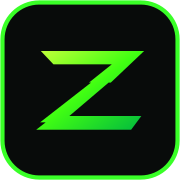
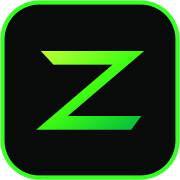
Corrige a diagonal da marca ZECA com um único contorno

diff --git a/index.html b/index.html
@@ -5,10 +5,10 @@
   <meta name="viewport" content="width=device-width, initial-scale=1, viewport-fit=cover" />
   <meta name="theme-color" content="#080e09" />
   <link rel="manifest" href="/manifest.webmanifest">
-  <link rel="apple-touch-icon" href="/assets/zeca-180.png">
+  <link rel="apple-touch-icon" href="/assets/zeca-180.png?v=2">
   <meta name="apple-mobile-web-app-capable" content="yes">
   <title>ZECA — Sua mobilidade</title>
-  <link rel="icon" type="image/svg+xml" href="/assets/zeca-icon.svg" />
+  <link rel="icon" type="image/svg+xml" href="/assets/zeca-icon.svg?v=2" />
   <meta name="description" content="ZECA — protótipo de mobilidade com GPS ao vivo e estimativas transparentes de tarifas, ganhos e combustível." />
   
   
@@ -326,7 +326,7 @@ html[data-theme="dark"] .leaflet-container{background:#222a26}
   </style>
 </head>
 <body>
-  <main id="loginScreen"><form id="loginForm"><img src="/assets/zeca-icon.svg" width="54" height="54" alt="ZECA"><h1 id="authTitle">Entrar no ZECA</h1><label for="loginEmail">Seu e-mail</label><input id="loginEmail" type="email" autocomplete="username" required maxlength="254">
+  <main id="loginScreen"><form id="loginForm"><img src="/assets/zeca-icon.svg?v=2" width="54" height="54" alt="ZECA"><h1 id="authTitle">Entrar no ZECA</h1><label for="loginEmail">Seu e-mail</label><input id="loginEmail" type="email" autocomplete="username" required maxlength="254">
     <div id="codeRow" hidden><label for="loginCode">Código enviado por e-mail</label><input id="loginCode" inputmode="numeric" autocomplete="one-time-code" pattern="[0-9]{6}" maxlength="6"></div>
     <div id="passwordRow"><label id="passwordLabel" for="loginPassword">Senha</label><input id="loginPassword" type="password" autocomplete="current-password" required maxlength="128"></div>
     <button id="loginSubmit" class="btn-primary">Entrar</button><div id="authActions">
@@ -345,7 +345,7 @@ html[data-theme="dark"] .leaflet-container{background:#222a26}
     <aside class="sidebar" aria-label="Planejamento da corrida">
       <div class="sidebar-inner">
         <div class="panel-top"><button type="button" id="topPanelToggle" class="mobile-collapse-btn" aria-expanded="true" aria-label="Recolher busca"></button>
-          <div class="brand-row"><div class="passenger-heading"><img src="/assets/zeca-icon.svg" alt="ZECA" width="35" height="35"><strong id="tripGreeting"></strong></div><button class="profile-dot" id="openPreferences" aria-label="Configurações" aria-haspopup="dialog" aria-controls="preferences"><svg class="ui-icon" aria-hidden="true" viewBox="0 0 24 24"><path d="m9 3 1-2h4l1 2 2 1 2-.2 2 3-1.3 2 .3 2 1.5 1.8-1 3.6-2.4.4-1.5 1.4-.4 2.4-3.8.9-1.6-1.6-2-.3-2 1.2-3-2 .3-2.3-1-1.8L1 13v-3l2.2-1.3 1-1.9L4 4.5l3-1.7z"/><circle cx="11.8" cy="11.6" r="3.6"/></svg></button></div>
+          <div class="brand-row"><div class="passenger-heading"><img src="/assets/zeca-icon.svg?v=2" alt="ZECA" width="35" height="35"><strong id="tripGreeting"></strong></div><button class="profile-dot" id="openPreferences" aria-label="Configurações" aria-haspopup="dialog" aria-controls="preferences"><svg class="ui-icon" aria-hidden="true" viewBox="0 0 24 24"><path d="m9 3 1-2h4l1 2 2 1 2-.2 2 3-1.3 2 .3 2 1.5 1.8-1 3.6-2.4.4-1.5 1.4-.4 2.4-3.8.9-1.6-1.6-2-.3-2 1.2-3-2 .3-2.3-1-1.8L1 13v-3l2.2-1.3 1-1.9L4 4.5l3-1.7z"/><circle cx="11.8" cy="11.6" r="3.6"/></svg></button></div>
 
           
           <div class="inputs">
